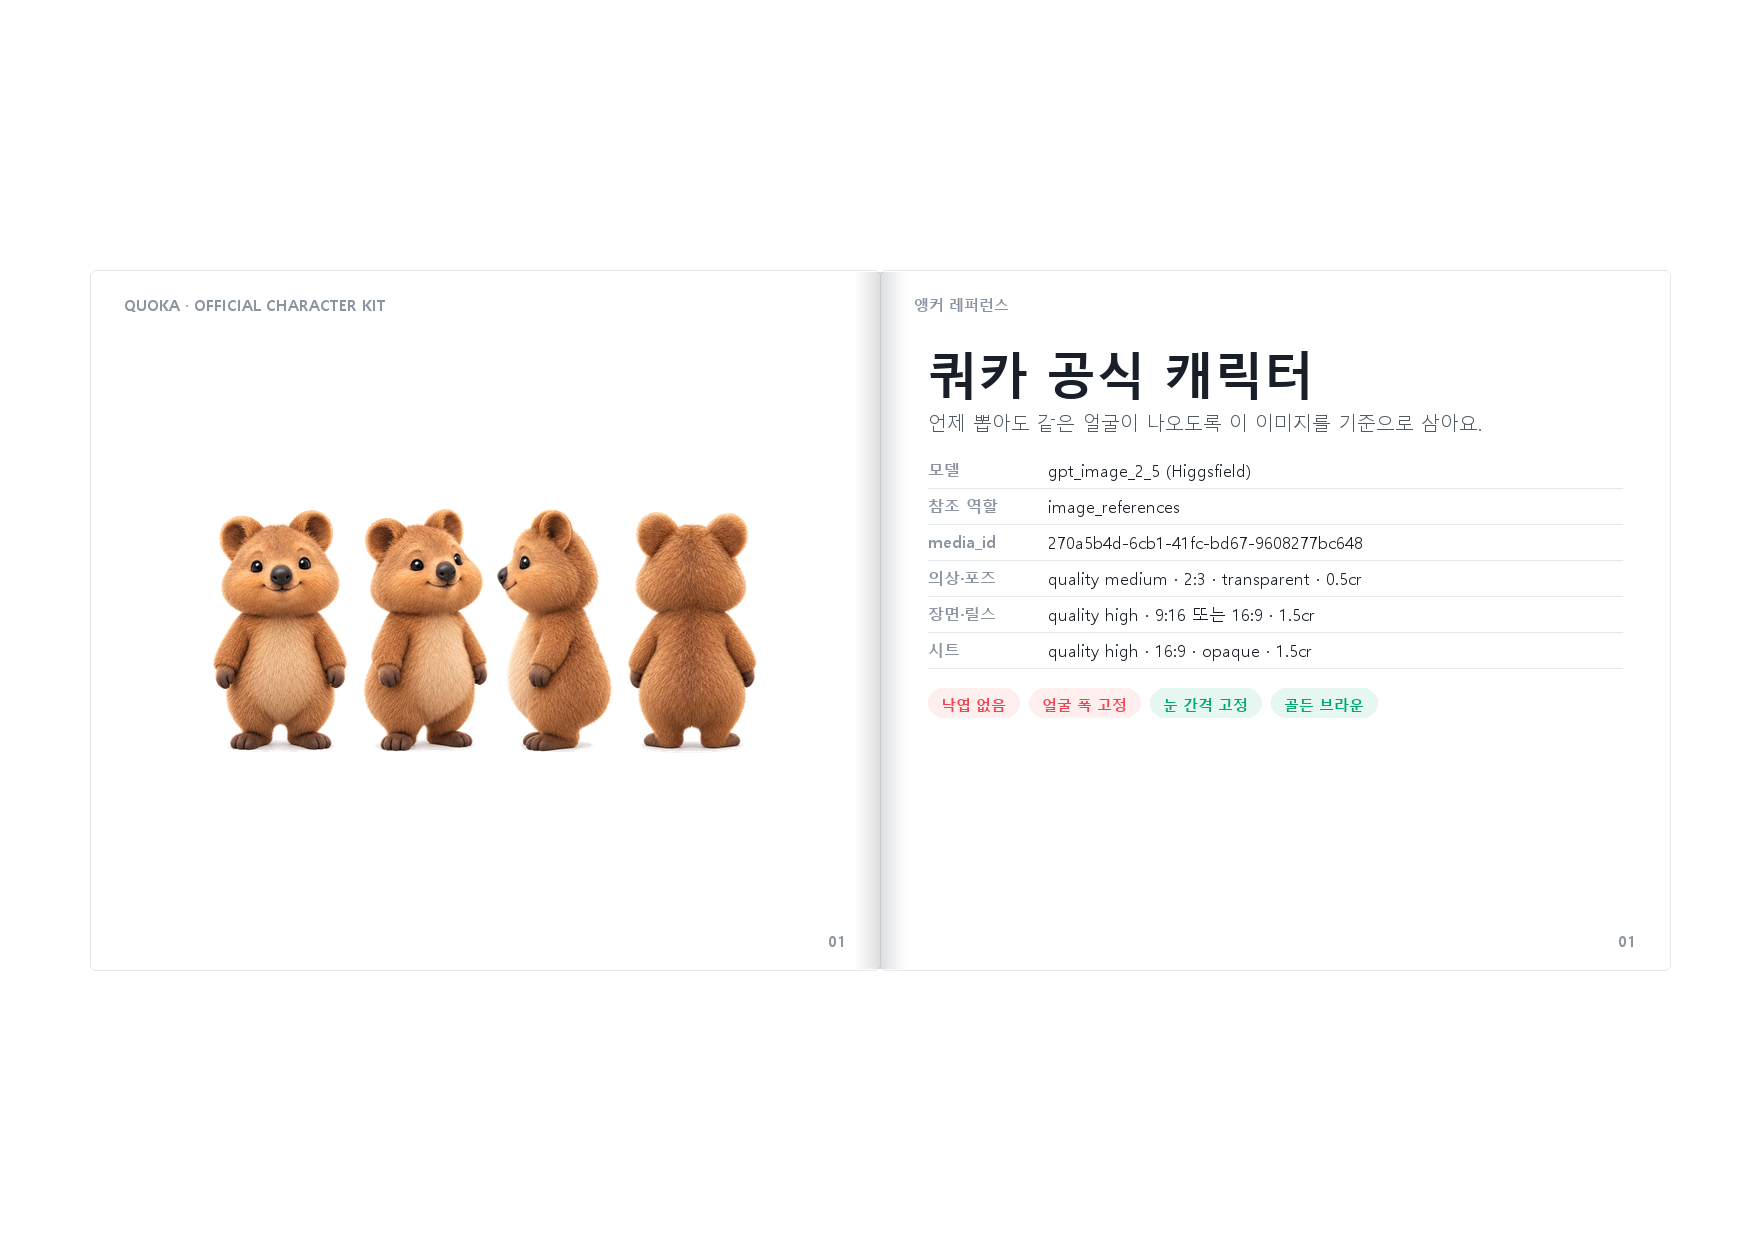
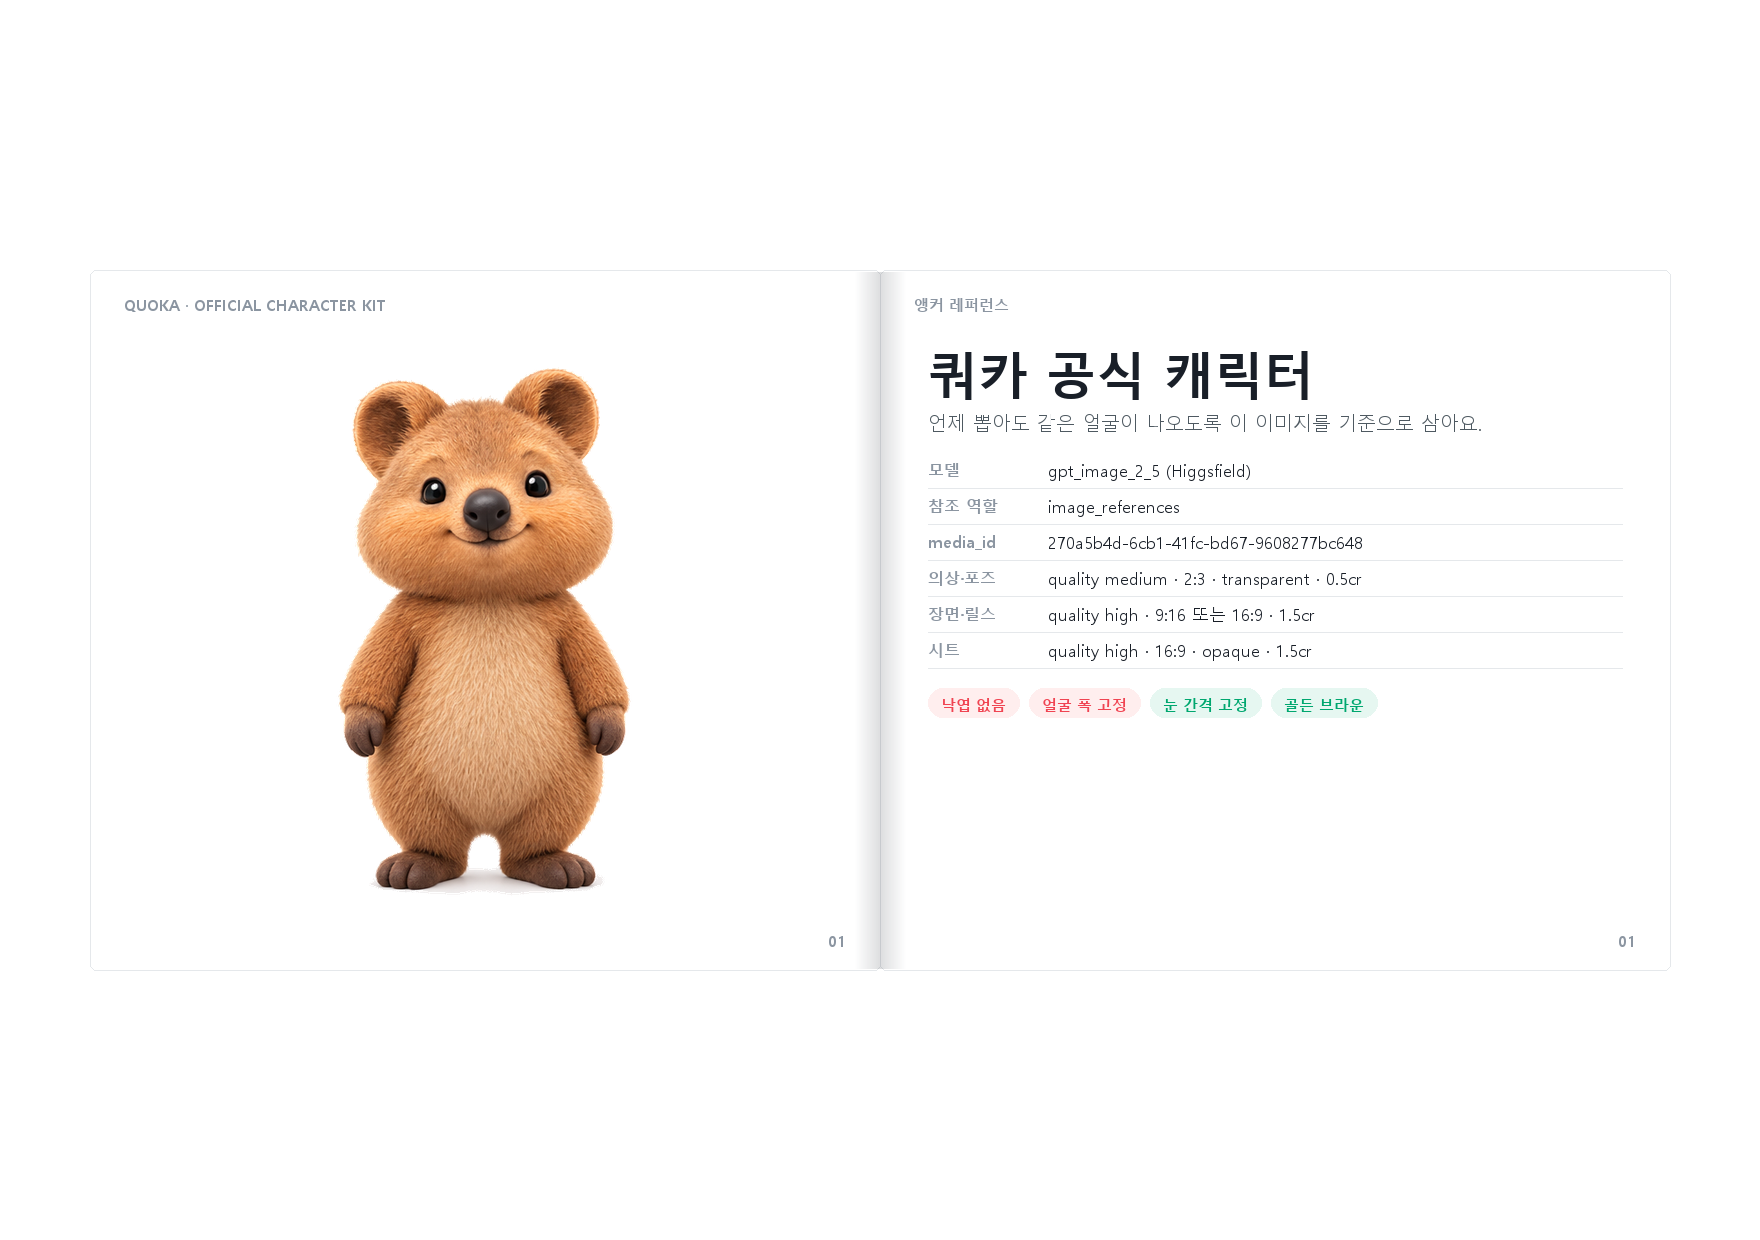
앵커 크롭: 턴어라운드 정면 1체만

Changed region(s): [[0.125, 0.2758, 0.4375, 0.7355]]

diff --git a/tools/plates.py b/tools/plates.py
@@ -69,12 +69,17 @@ def anchor_crop():
     src = Image.open(A("assets/sheets/01_turnaround.png")).convert("RGB")
     import numpy as np
     a = np.asarray(src); dark = (a.min(axis=2) < 235)
-    cols = dark.any(axis=0); xs = [i for i, v in enumerate(cols) if v]
-    # first figure = first run of non-white columns (allow small gaps)
-    x0 = xs[0]; x1 = x0
-    for i in xs:
-        if i - x1 > 40: break
-        x1 = i
+    # column occupancy; split figures at white gaps at least 6px wide, keep the first wide segment
+    occ = dark.sum(axis=0) > 2
+    segs, start = [], None
+    for i, v in enumerate(list(occ) + [False]):
+        if v and start is None: start = i
+        if not v and start is not None:
+            if segs and i - 0 >= 0 and start - segs[-1][1] < 6: segs[-1] = (segs[-1][0], i)
+            else: segs.append((start, i))
+            start = None
+    segs = [sg for sg in segs if sg[1] - sg[0] > src.width * 0.08]
+    x0, x1 = segs[0]
     rows = dark[:, x0:x1].any(axis=1); ys = [i for i, v in enumerate(rows) if v]
     pad = 20
     crop = src.crop((max(0, x0 - pad), max(0, ys[0] - pad), min(src.width, x1 + pad), min(src.height, ys[-1] + pad))).convert("RGBA")
